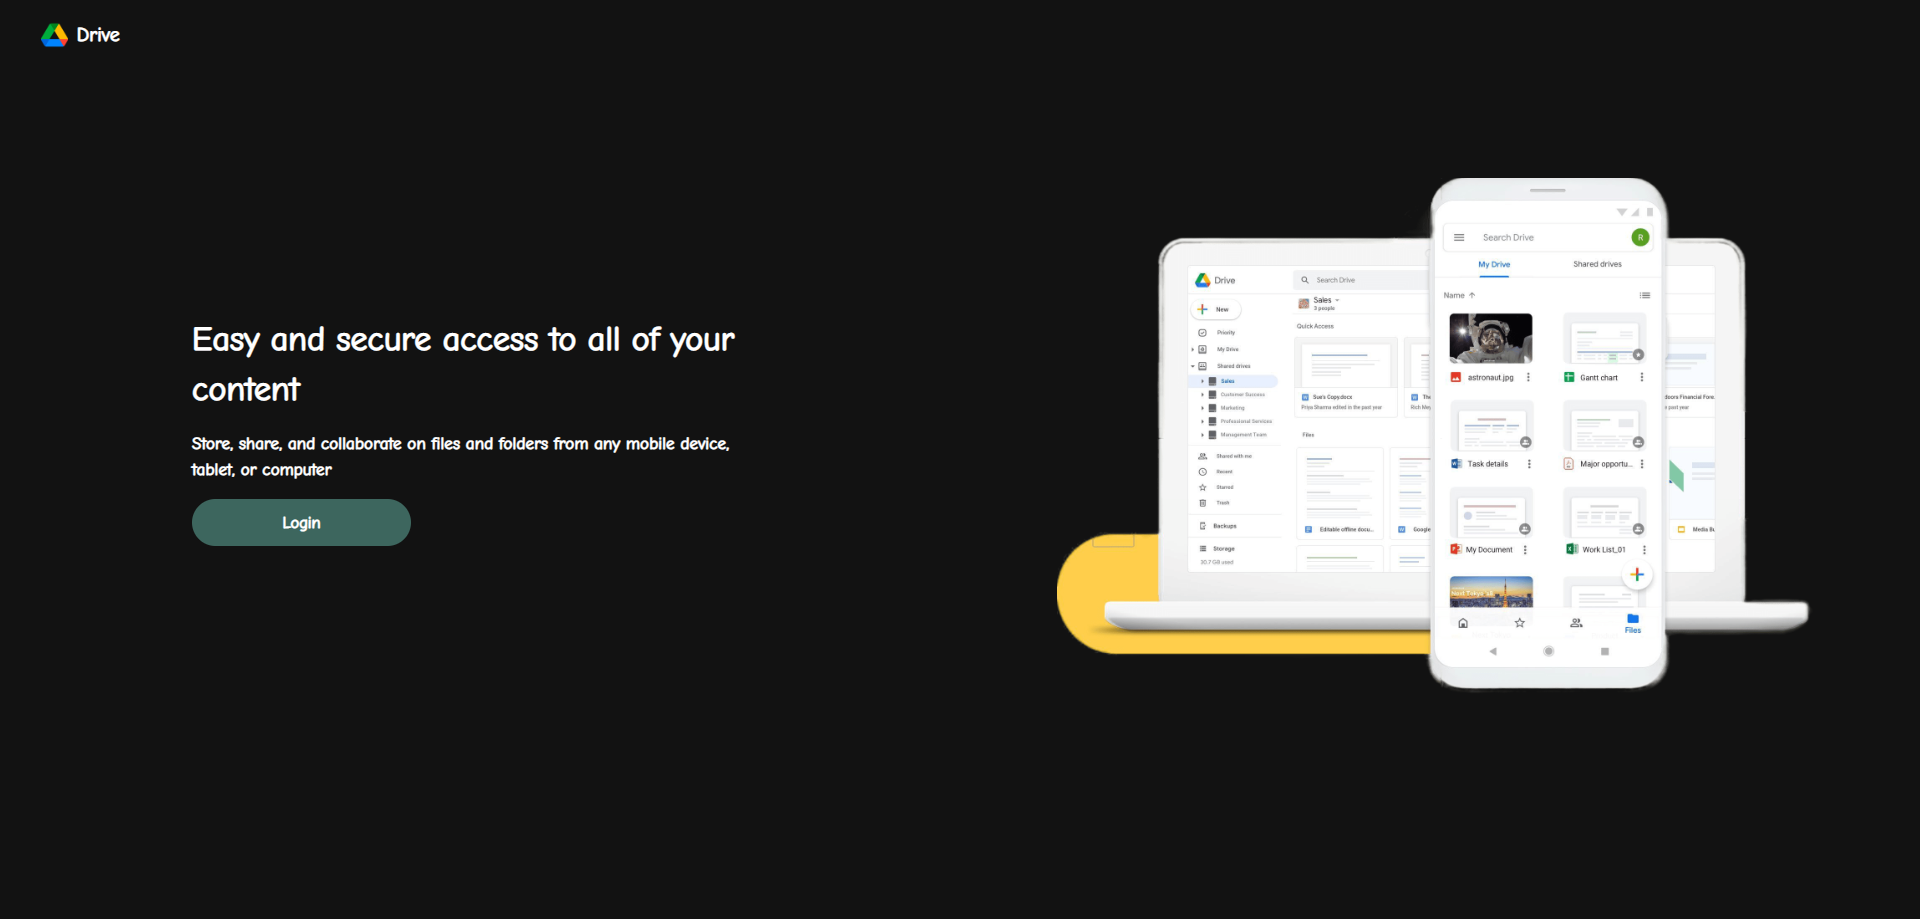
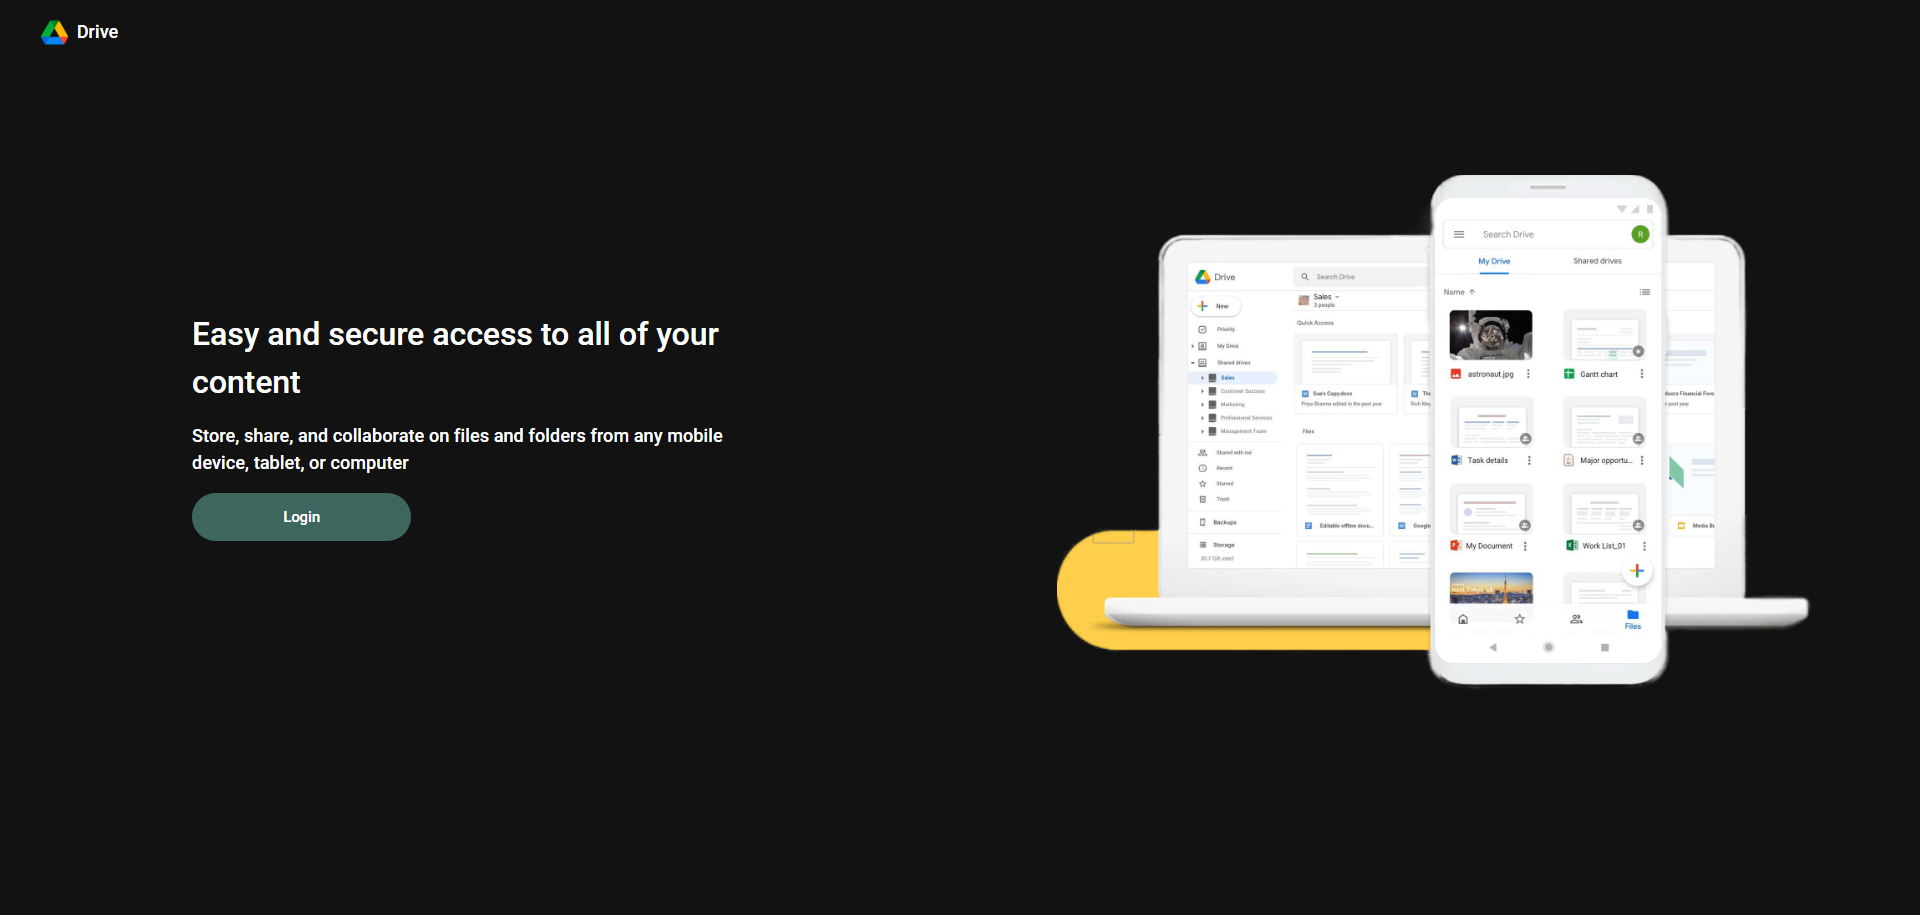
Font commit

diff --git a/client/src/pages/Login.js b/client/src/pages/Login.js
@@ -35,9 +35,9 @@ export const Login = (props) => {
             <Box className="page" style={{ display: 'flex', flexDirection: 'row', height: '80vh' }}>
                 <div className="left" style={{ width: '50%', display: 'flex', flexDirection: 'column', alignItems: 'center', justifyContent: 'center' }}>
                     <div className="somebigtext" style={{ width: '60%' }}>
-                        <h1 style={{ marginBottom: '16px' }}> Easy and secure access to all of your content</h1>
-                        <p style={{ marginBottom: '16px' }}>Store, share, and collaborate on files and folders from any mobile device, tablet, or computer</p>
-                        <button onClick={loginfunc} style={{ width: '38%', display: 'flex', flexDirection: 'row', justifyContent: 'center', alignItems: 'center', backgroundColor: context.dark ? "rgb(61,102,94)" : '#F0F5FF', outline: 'none', border: 'none', height: '45px', borderRadius: '32px', cursor: 'pointer', marginBottom: '17px', marginTop: '15px', color: 'inherit' }}><h3>Login</h3></button>
+                        <p style={{ marginBottom: '16px',fontSize:'30px'  }}> Easy and secure access to all of your content</p>
+                        <p style={{ marginBottom: '16px',fontSize:'17px' }}>Store, share, and collaborate on files and folders from any mobile device, tablet, or computer</p>
+                        <button onClick={loginfunc} style={{ width: '38%', display: 'flex', flexDirection: 'row', justifyContent: 'center', alignItems: 'center', backgroundColor: context.dark ? "rgb(61,102,94)" : '#F0F5FF', outline: 'none', border: 'none', height: '45px', borderRadius: '32px', cursor: 'pointer', marginBottom: '17px', marginTop: '15px', color: 'inherit' }}><p style={{fontSize:'14px'}}>Login</p></button>
                         {/* <Button onClick={loginfunc} variant="contained" style={{ textTransform: 'lowercase', width: '195px', height: '42px', fontFamily: 'Comic Neue', color: 'white', fontSize: '15px', backgroundColor: '#2196f3' }}>Login</Button> */}
                     </div>
                 </div>

diff --git a/client/src/components/UnloggedNav.js b/client/src/components/UnloggedNav.js
@@ -6,7 +6,7 @@ export const UnloggedNav = () => {
             <div className="left" style={{ width: '24%', }}>
                 <div className="logo" style={{ display: 'flex', flexDirection: 'row', alignItems: 'center', marginTop: '19px', marginBottom: '19px', cursor: 'pointer' }}>
                     <img style={{ width: '25px', marginLeft: '9%', marginRight: '8.45px' }} src={logo} alt="" />
-                    <h3>Drive</h3>
+                    <p style={{fontSize:'17px'}}>Drive</p>
                 </div>
             </div>
         </div>
